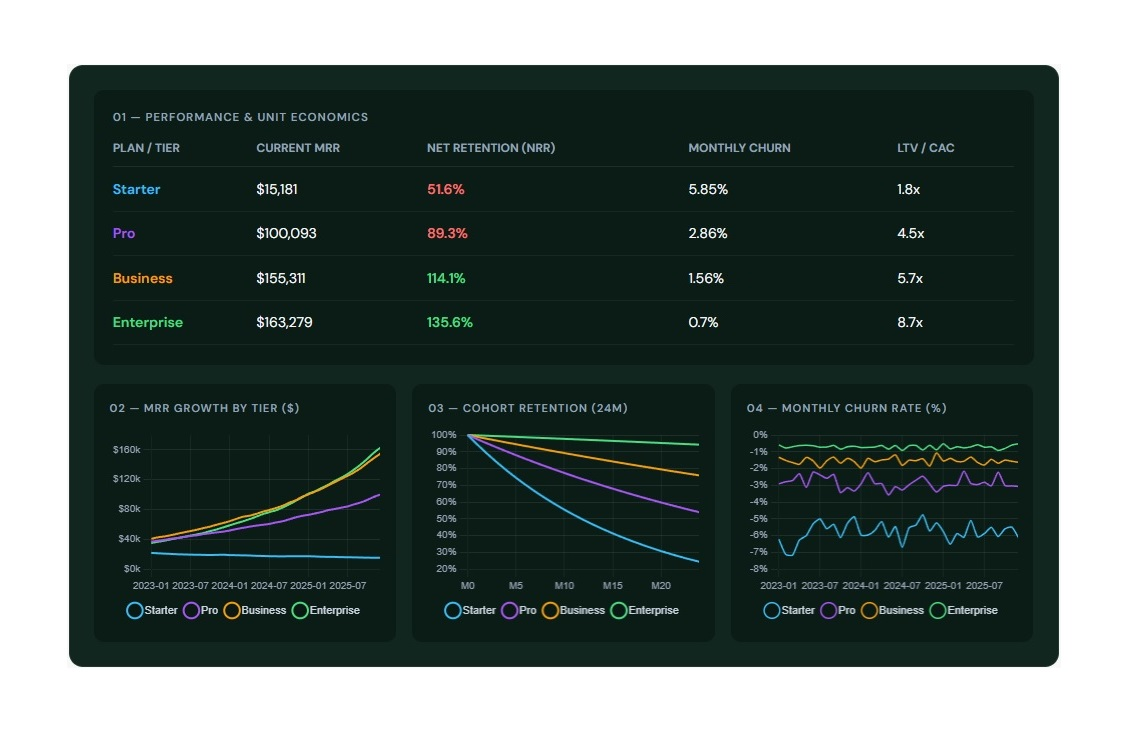
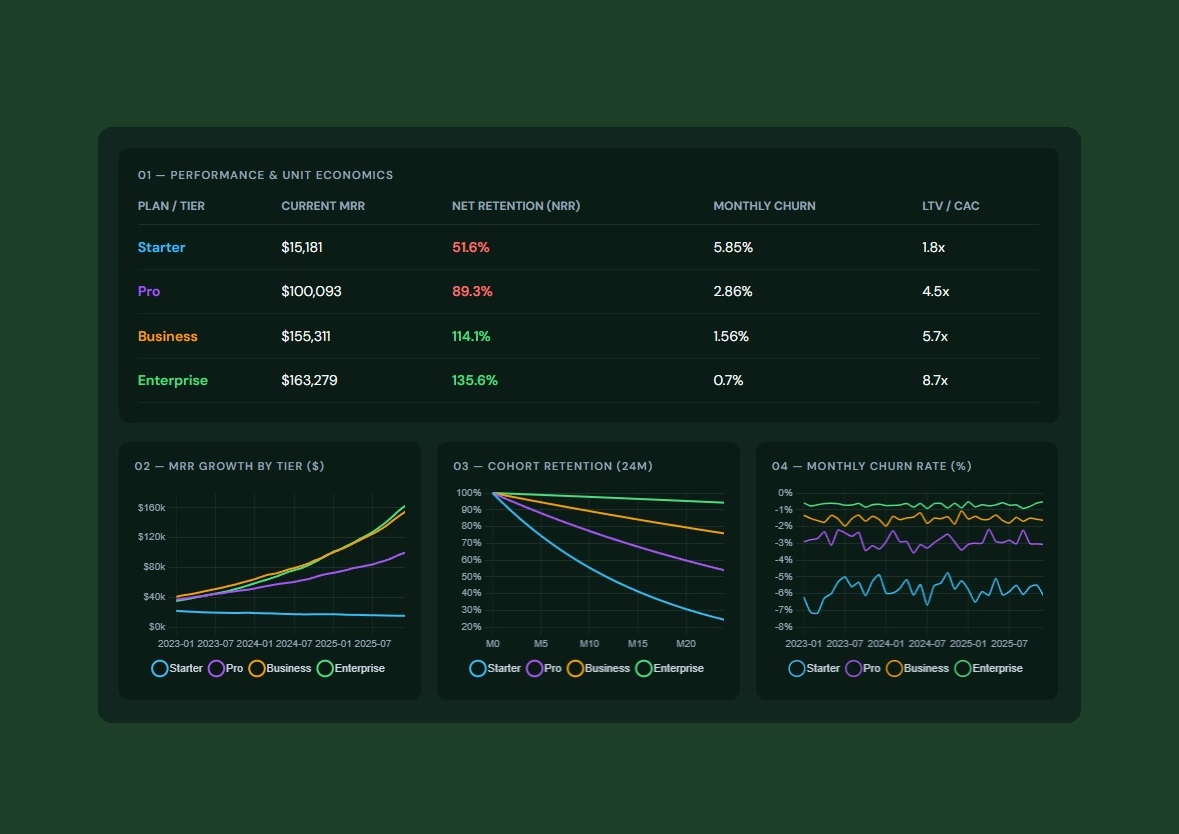
Final 1.0
little changes

diff --git a/index.html b/index.html
@@ -664,7 +664,8 @@
   data-title="Subscription Growth & Retention"
   data-type="DATA ANALYTICS / PYTHON & JS"
   data-year="2026"
-  data-description="A 36-month statistical simulation and interactive dashboard built to identify which pricing tiers drive real profit and where customers are dropping off. It helps leadership decide whether to focus budget on acquiring new users or improving product onboarding."
+data-description="A 36 month statistical simulation and interactive dashboard built to identify which pricing tiers drive real profit and where customers are dropping off. It helps leadership decide whether to focus budget on acquiring new users or improving product onboarding."
+
   data-client="Tech Startup Simulation"
   data-services="Python (Pandas/NumPy), Google Colab, Chart.js, Data Storytelling"
   data-image="images/dashboard.jpg"
